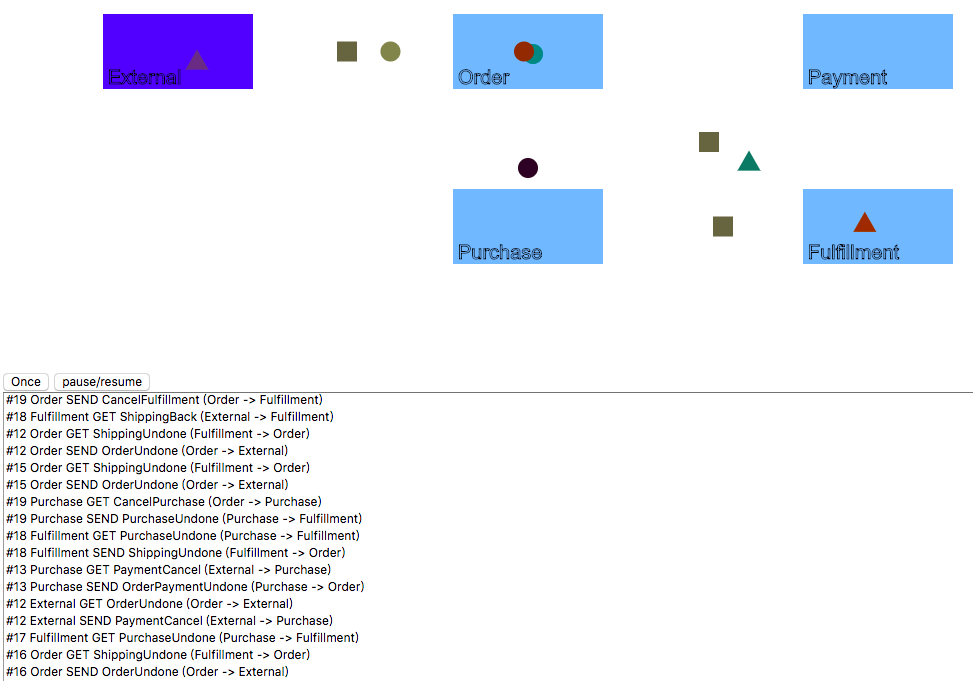
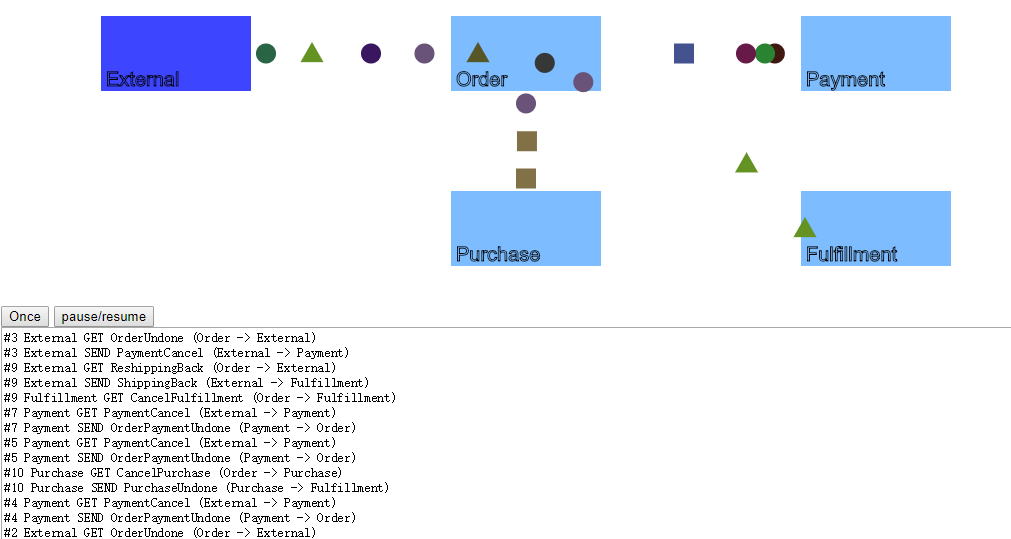
Correct cancel order demo

diff --git a/WebDemo/CancelOrder/cancel-order.js b/WebDemo/CancelOrder/cancel-order.js
@@ -24,9 +24,9 @@ function createOrderCancel(artifact) {
 }
 
 function createReshippingBack(artifact) {
-    writeWhiteBoard('#' + artifact.id + ' Order SEND OrderCancel (Order -> External)\n');
+    writeWhiteBoard('#' + artifact.id + ' Order SEND ReshippingBack (Order -> External)\n');
     let reshippingBack = new Message(order, external, artifact, () => {
-        writeWhiteBoard('#' + artifact.id + ' External GET OrderCancel (Order -> External)\n');
+        writeWhiteBoard('#' + artifact.id + ' External GET ReshippingBack (Order -> External)\n');
         createShippingBack(artifact);
     });
     artifact.msgs.push(reshippingBack);
@@ -63,18 +63,18 @@ function createOrderUndone(artifact) {
 }
 
 function createPaymentCancel(artifact) {
-    writeWhiteBoard('#' + artifact.id + ' External SEND PaymentCancel (External -> Purchase)\n');
-    let paymentCancel = new Message(external, purchase, artifact, () => {
-        writeWhiteBoard('#' + artifact.id + ' Purchase GET PaymentCancel (External -> Purchase)\n');
+    writeWhiteBoard('#' + artifact.id + ' External SEND PaymentCancel (External -> Payment)\n');
+    let paymentCancel = new Message(external, payment, artifact, () => {
+        writeWhiteBoard('#' + artifact.id + ' Payment GET PaymentCancel (External -> Payment)\n');
         createOrderPaymentUndone(artifact);
     });
     artifact.msgs.push(paymentCancel);
 }
 
 function createOrderPaymentUndone(artifact) {
-    writeWhiteBoard('#' + artifact.id + ' Purchase SEND OrderPaymentUndone (Purchase -> Order)\n');
-    let orderPaymentUndone = new Message(purchase, order, artifact, () => {
-        writeWhiteBoard('#' + artifact.id + ' Order GET OrderPaymentUndone (Purchase -> Order)\n');
+    writeWhiteBoard('#' + artifact.id + ' Payment SEND OrderPaymentUndone (Payment -> Order)\n');
+    let orderPaymentUndone = new Message(payment, order, artifact, () => {
+        writeWhiteBoard('#' + artifact.id + ' Order GET OrderPaymentUndone (Payment -> Order)\n');
         createInVoice(artifact);
     });
     artifact.msgs.push(orderPaymentUndone);
